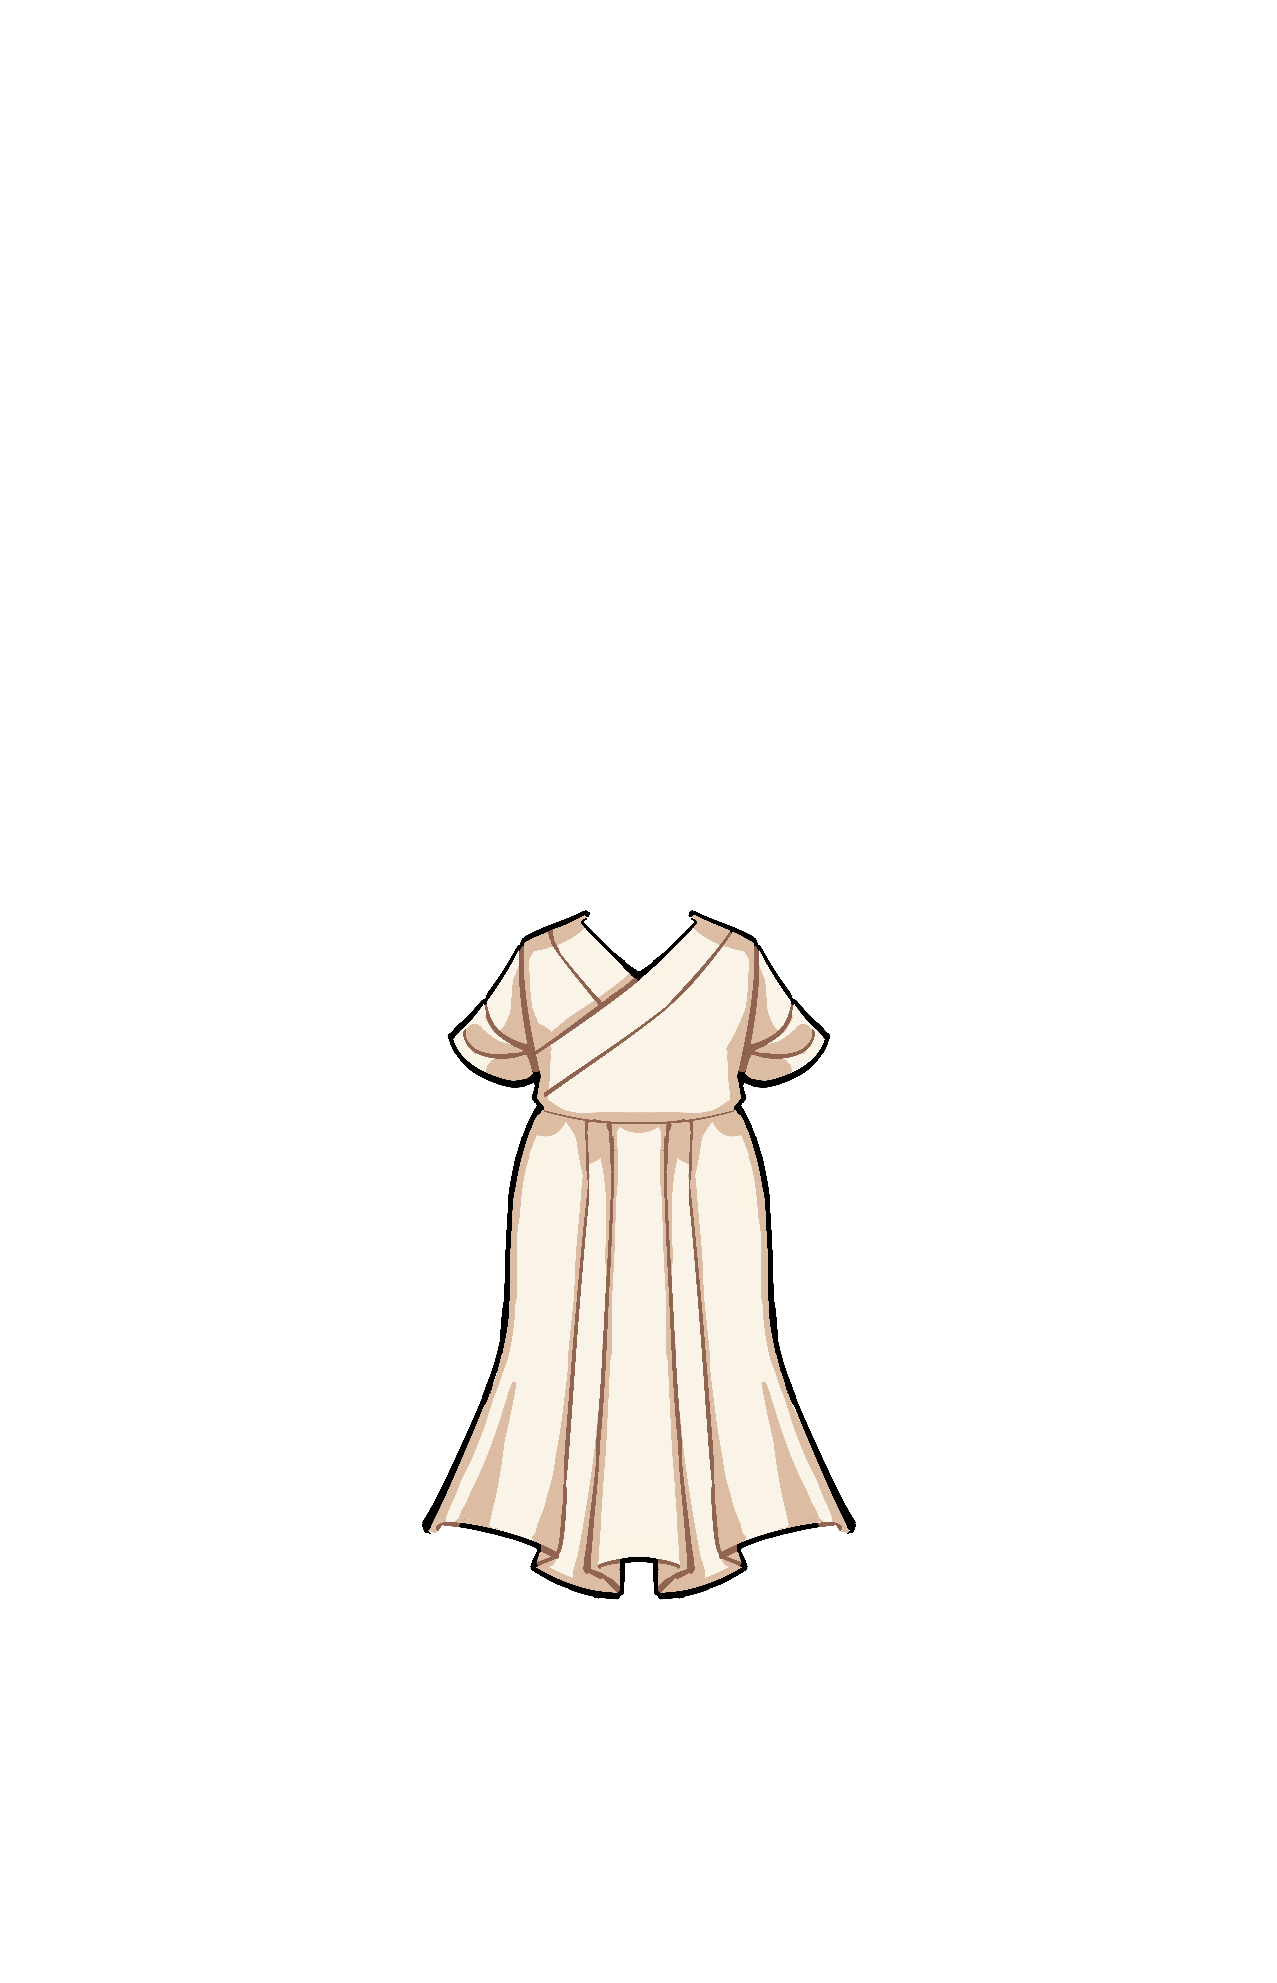
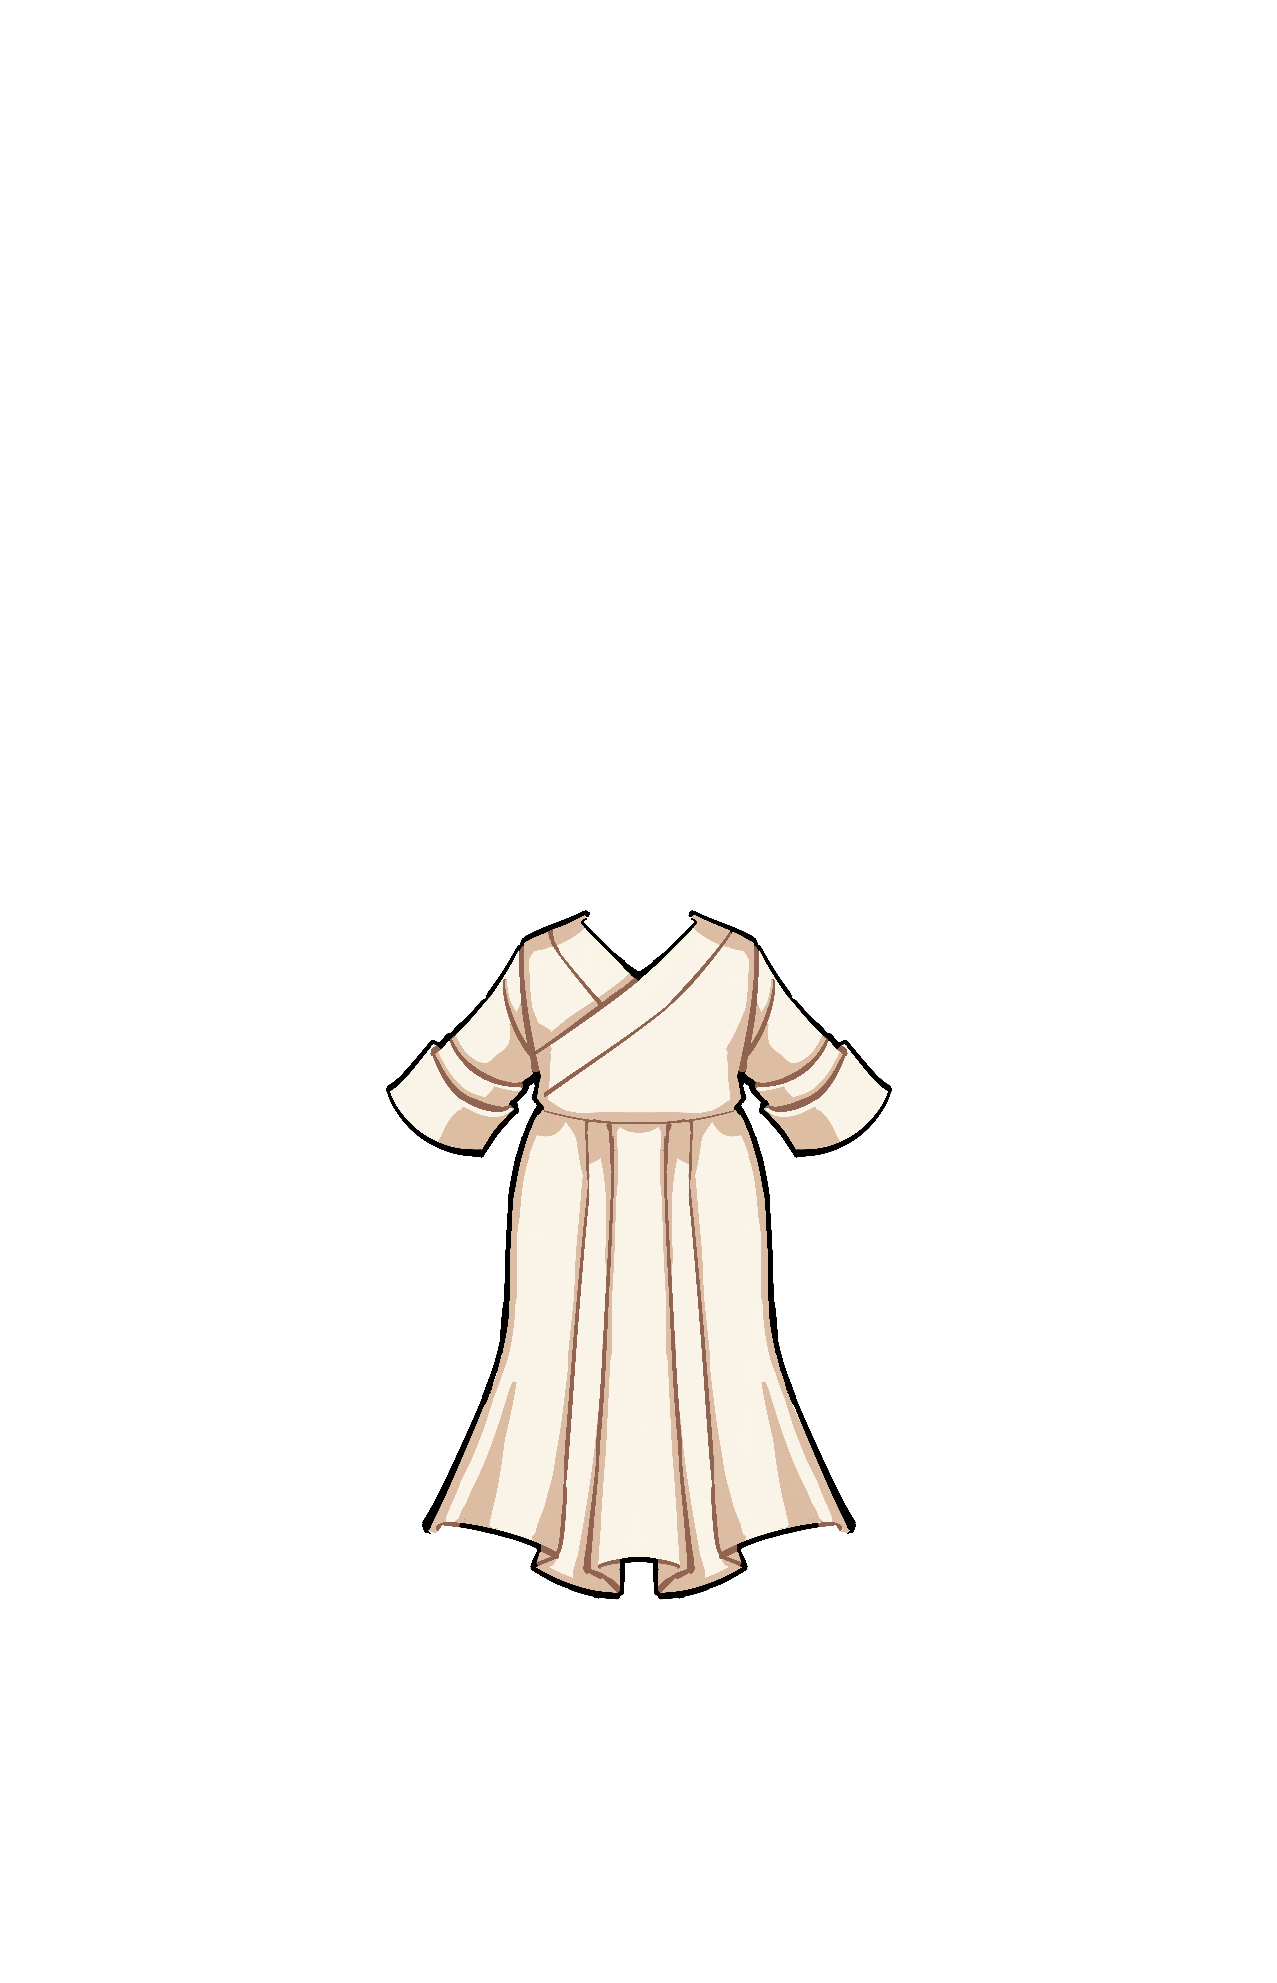
Add casual outfit

Changed region(s): [[0.5803, 0.4922, 0.7024, 0.5845], [0.3054, 0.4922, 0.4276, 0.5845]]

diff --git a/index.html b/index.html
@@ -29,7 +29,7 @@
   <body>
     <div class="game-box">
       <div class="doll-box" id="doll-box">
-        <img src="assets/base.png" class="layer0 doll-layer" id="base-doll"/>
+        <img src="assets/base.png" class="layer0 doll-layer" id="base-doll" />
         <img
           src="assets/under/plain.png"
           class="layer1 doll-layer"
@@ -219,6 +219,12 @@
                 class="outfit-btn"
                 onclick="ChangeOutfit(this);"
                 data-item="advisorOutfit"
+              />
+              <img
+                src="assets/outfits/casual-outfit.png"
+                class="outfit-btn"
+                onclick="ChangeOutfit(this);"
+                data-item="casualOutfit"
               />
             </div>
             <div class="tab-pane fade" id="hair-tab" role="tabpanel">
@@ -433,25 +439,38 @@
             <div class="modal-title mt-2">About Game</div>
             <div class="about-game-body">
               This is a silly little dress up game featuring my original
-              character, Qiu Ye, who is a nine-tailed fox spirit. It is mostly meant to showcase his various
-              outfits. 
-              <br>
-              <br>
-              This game is (badly) coded in plain HTML/ CSS/ JavaScript and not very well-optimized for
-              mobile. I may update it with more outfits/ features in the future depending on my mood. In the
-              meantime, thanks for playing!
+              character, Qiu Ye, who is a nine-tailed fox spirit. It is mostly
+              meant to showcase his various outfits.
+              <br />
+              <br />
+              This game is (badly) coded in plain HTML/ CSS/ JavaScript (with
+              some Bootstrap and JQuery) and not very well-optimized for mobile.
+              I may update it with more outfits/ features in the future
+              depending on my mood. In the meantime, thanks for playing!
               <br />
               <br />
               For more of my works, you can find me on Instagram at
-              <b><a href="https://www.instagram.com/kanekos99/">kanekos99</a></b>!
+              <b><a href="https://www.instagram.com/kanekos99/">kanekos99</a></b
+              >!
             </div>
             <div class="modal-title credits-title mt-3">Credits</div>
             <div class="credits-body">
               <ul>
-                <li>Background graphics are made by me in Canva and character/ outfits are drawn by me</li>
-                <li>Game icons are from <a href="https://www.flaticon.com/">flaticon.com</a> and <a href="https://www.iconfinder.com/">iconfinder.com</a></li>
-                <li>Sound effects are from RPGMaker MV and BGM is from <a href="https://www.youtube.com/watch?v=aO3YvO8bvjk">here</a></li>
-              </ul>  
+                <li>
+                  Background graphics are made by me in Canva and character/
+                  outfits are drawn by me
+                </li>
+                <li>
+                  Game icons are from
+                  <a href="https://www.flaticon.com/">flaticon.com</a> and
+                  <a href="https://www.iconfinder.com/">iconfinder.com</a>
+                </li>
+                <li>
+                  Sound effects are from RPGMaker MV and BGM is from
+                  <a href="https://www.youtube.com/watch?v=aO3YvO8bvjk">here</a>
+                </li>
+              </ul>
+            </div>
           </div>
           <div class="modal-footer">
             <button

diff --git a/scripts/clothesDB.js b/scripts/clothesDB.js
@@ -72,6 +72,16 @@ const clothes = {
       related: [],
       dependent: [],
     },
+    {
+      id: "autumn-casual-outer",
+      name: "Autumn Outer Robe (Casual)",
+      category: "OUTER",
+      imgHtml: `<img src="assets/outer/autumn_casual.png" class="layer7 doll-layer" id="autumn-casual-outer"/>`,
+      iconHtml: `<img src="assets/outer/icons/autumn_casual_icon.png" class="item-btn" onclick="toggleItem(this);" data-item="autumn-casual-outer" data-category="outer">`,
+      layer: 7,
+      related: [],
+      dependent: [],
+    },
   ],
   pants: [
     {
@@ -106,6 +116,17 @@ const clothes = {
         subcategory: "BELTS",
         imgHtml: `<img src="assets/belt/green_medal_belt.png" class="layer10 doll-layer" id="green-medal-belt"/>`,
         iconHtml: `<img src="assets/belt/icons/green_medal_belt_icon.png" class="item-btn selected-item" onclick="toggleItem(this);" data-item="green-medal-belt" data-category="accessories" data-subcategory="belts">`,
+        layer: 8,
+        related: [],
+        dependent: [],
+      },
+      {
+        id: "green-bow-belt",
+        name: "Green Bow Belt",
+        category: "ACCESSORIES",
+        subcategory: "BELTS",
+        imgHtml: `<img src="assets/belt/green_bow_belt.png" class="layer10 doll-layer" id="green-bow-belt"/>`,
+        iconHtml: `<img src="assets/belt/icons/green_bow_belt_icon.png" class="item-btn" onclick="toggleItem(this);" data-item="green-bow-belt" data-category="accessories" data-subcategory="belts">`,
         layer: 8,
         related: [],
         dependent: [],
@@ -244,8 +265,41 @@ const outfits = {
       inner: "plain-inner",
       pants: "plain-pants",
       shoes: "advisor-boots",
-      accessories: ["green-medal-belt", "bottom-cape", "cinnabar-sword", "brown-collar", "fur-cape", "light-armour" ],
+      accessories: [
+        "green-medal-belt",
+        "bottom-cape",
+        "cinnabar-sword",
+        "brown-collar",
+        "fur-cape",
+        "light-armour",
+      ],
+    },
+  },
+  casualOutfit: {
+    outfitHTML: `<img src="assets/base.png" class="layer0 doll-layer" id="base-doll">
+    <img src="assets/under/plain.png" class="layer1 doll-layer" id="plain-under">
+    <img src="assets/hair/ponytail.png" class="layer-2 doll-layer" id="ponytail">
+    <img src="assets/tail/tails3.png" class="layer-5 doll-layer">
+    <img src="assets/inner/plain_a.png" class="layer5 doll-layer" id="plain-inner">
+    <img src="assets/inner/plain_b.png" class="layer-1 doll-layer" id="plain-inner-b">
+    <img src="assets/pants/plain.png" class="layer2 doll-layer" id="plain-pants">
+    <img src="assets/shoes/advisor_boots.png" class="layer3 doll-layer" id="advisor-boots">  
+    <img src="assets/cape/bottom_cape_a.png" class="layer6 doll-layer" id="bottom-cape">
+    <img src="assets/cape/bottom_cape_b.png" class="layer-3 doll-layer" id="bottom-cape-b">
+    <img src="assets/stand.png" width="450" class="doll-stand" id="doll-stand">
+    <img src="assets/belt/green_bow_belt.png" class="layer10 doll-layer" id="green-bow-belt">
+    <img src="assets/outer/autumn_casual.png" class="layer7 doll-layer" id="autumn-casual-outer">`,
+    outfitObj: {
+      hair: "ponytail",
+      under: "plain-under",
+      outer: "autumn-casual-outer",
+      inner: "plain-inner",
+      pants: "plain-pants",
+      shoes: "advisor-boots",
+      accessories: [
+        "green-bow-belt",
+        "bottom-cape",
+      ],
     },
   },
 };
-

diff --git a/scripts/main.js b/scripts/main.js
@@ -76,6 +76,9 @@ function toggleItem(selectedItem) {
     //toggle button
     selectedItem.classList.toggle("selected-item");
 
+    //play audio
+    playEquipAudio();
+
     //check if accessory is currently being worn
     if (selectedOutfit.accessories.includes(itemId)) {
       const accessoryName = "#" + itemId;

diff --git a/styles/main.css b/styles/main.css
@@ -248,7 +248,7 @@ body {
 
 .modal-footer {
   border: none;
-  padding: 0 !important;
+  /* padding: 0 !important; */
 }
 
 .modal-title {
